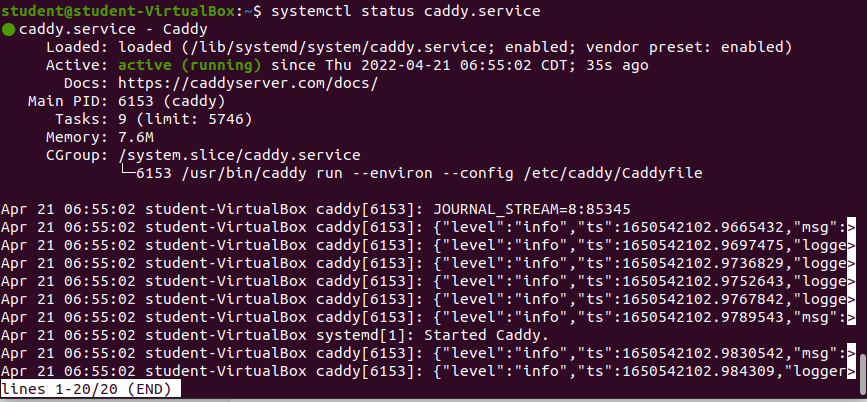
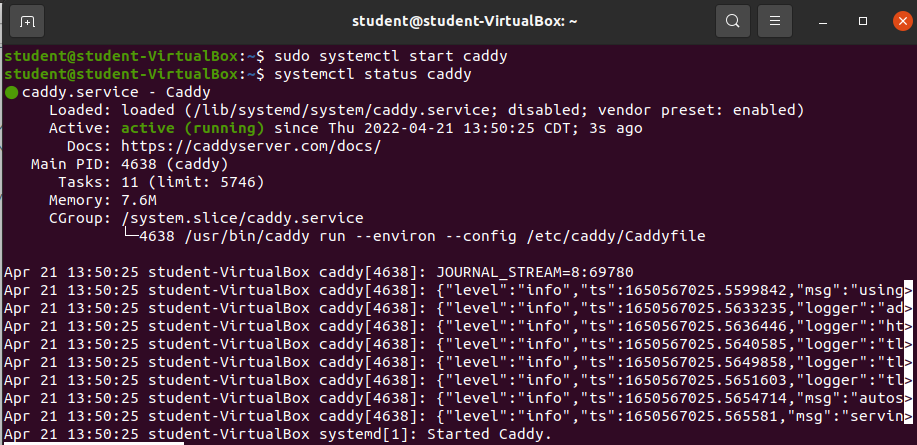
updated setup instructions with systemctl with image validation

diff --git a/content/web-server/caddy/setup/_index.md b/content/web-server/caddy/setup/_index.md
@@ -53,31 +53,36 @@ For more information and to see useful Caddy commands run the below command:
 ### Caddy Start
 
 ```bash
-caddy start
+sudo systemctl start caddy
 ```
+
+Check status:
+
+![systemctl-status-caddy](pictures/systemctl-status-caddy.png?classes=border)
 
 ```bash
-curl localhost:2019
+systemctl status caddy
 ```
 
-![curl-localhost-start](pictures/curl-localhost-start.png?classes=border)
+### Curl Localhost
+
+![curl-localhost-caddy](pictures/curl-localhost-caddy.png?classes=border)
+
+```bash
+curl localhost
+```
 
 ### Caddy Stop
+
+![caddy-stop](pictures/caddy-stop.png?classes=border)
 
 ```bash
 caddy stop
 ```
 
 ```bash
-curl localhost:2019
+curl localhost
 ```
 
-![curl-localhost-stop](pictures/curl-localhost-stop.png?classes=border)
+![caddy-stop-curl](pictures/caddy-stop-curl.png?classes=border)
 
-###
-
-<!-- {{% notice note %}}
-`systemctl status caddy.service`
-
-![systemctl-status-caddy](pictures/systemctl-status-caddy.png?classes=border)
-{{% /notice %}} -->
